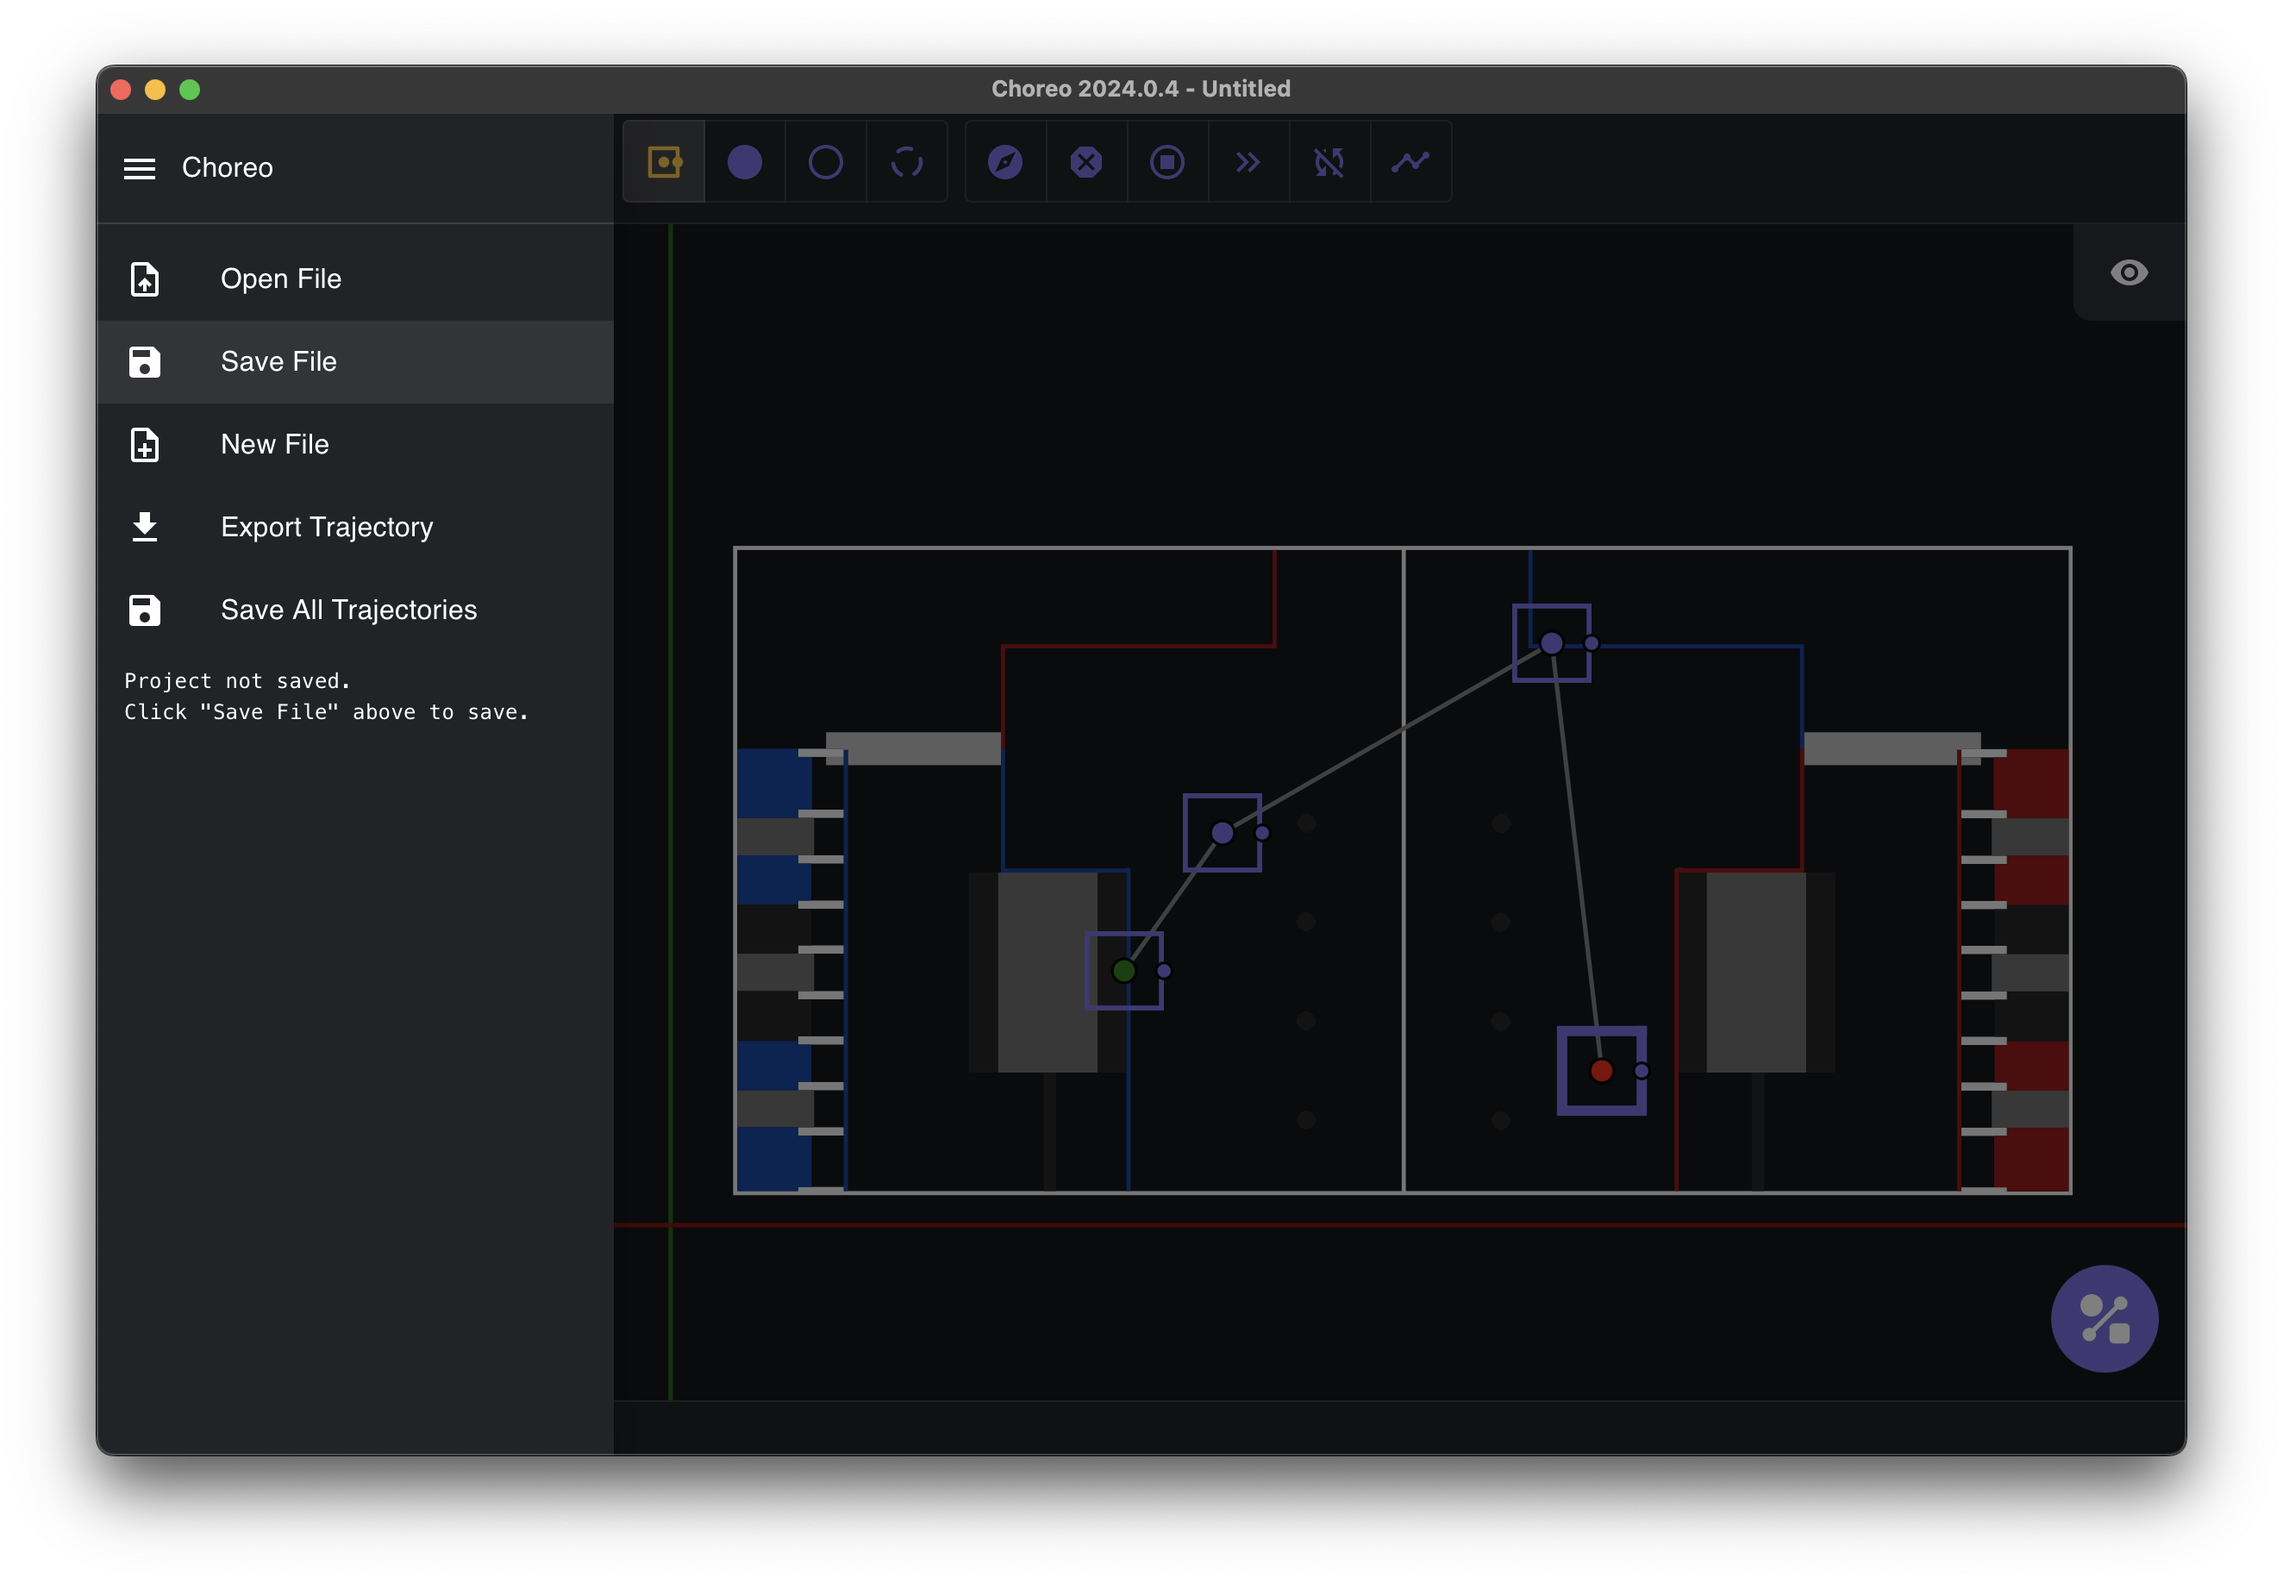
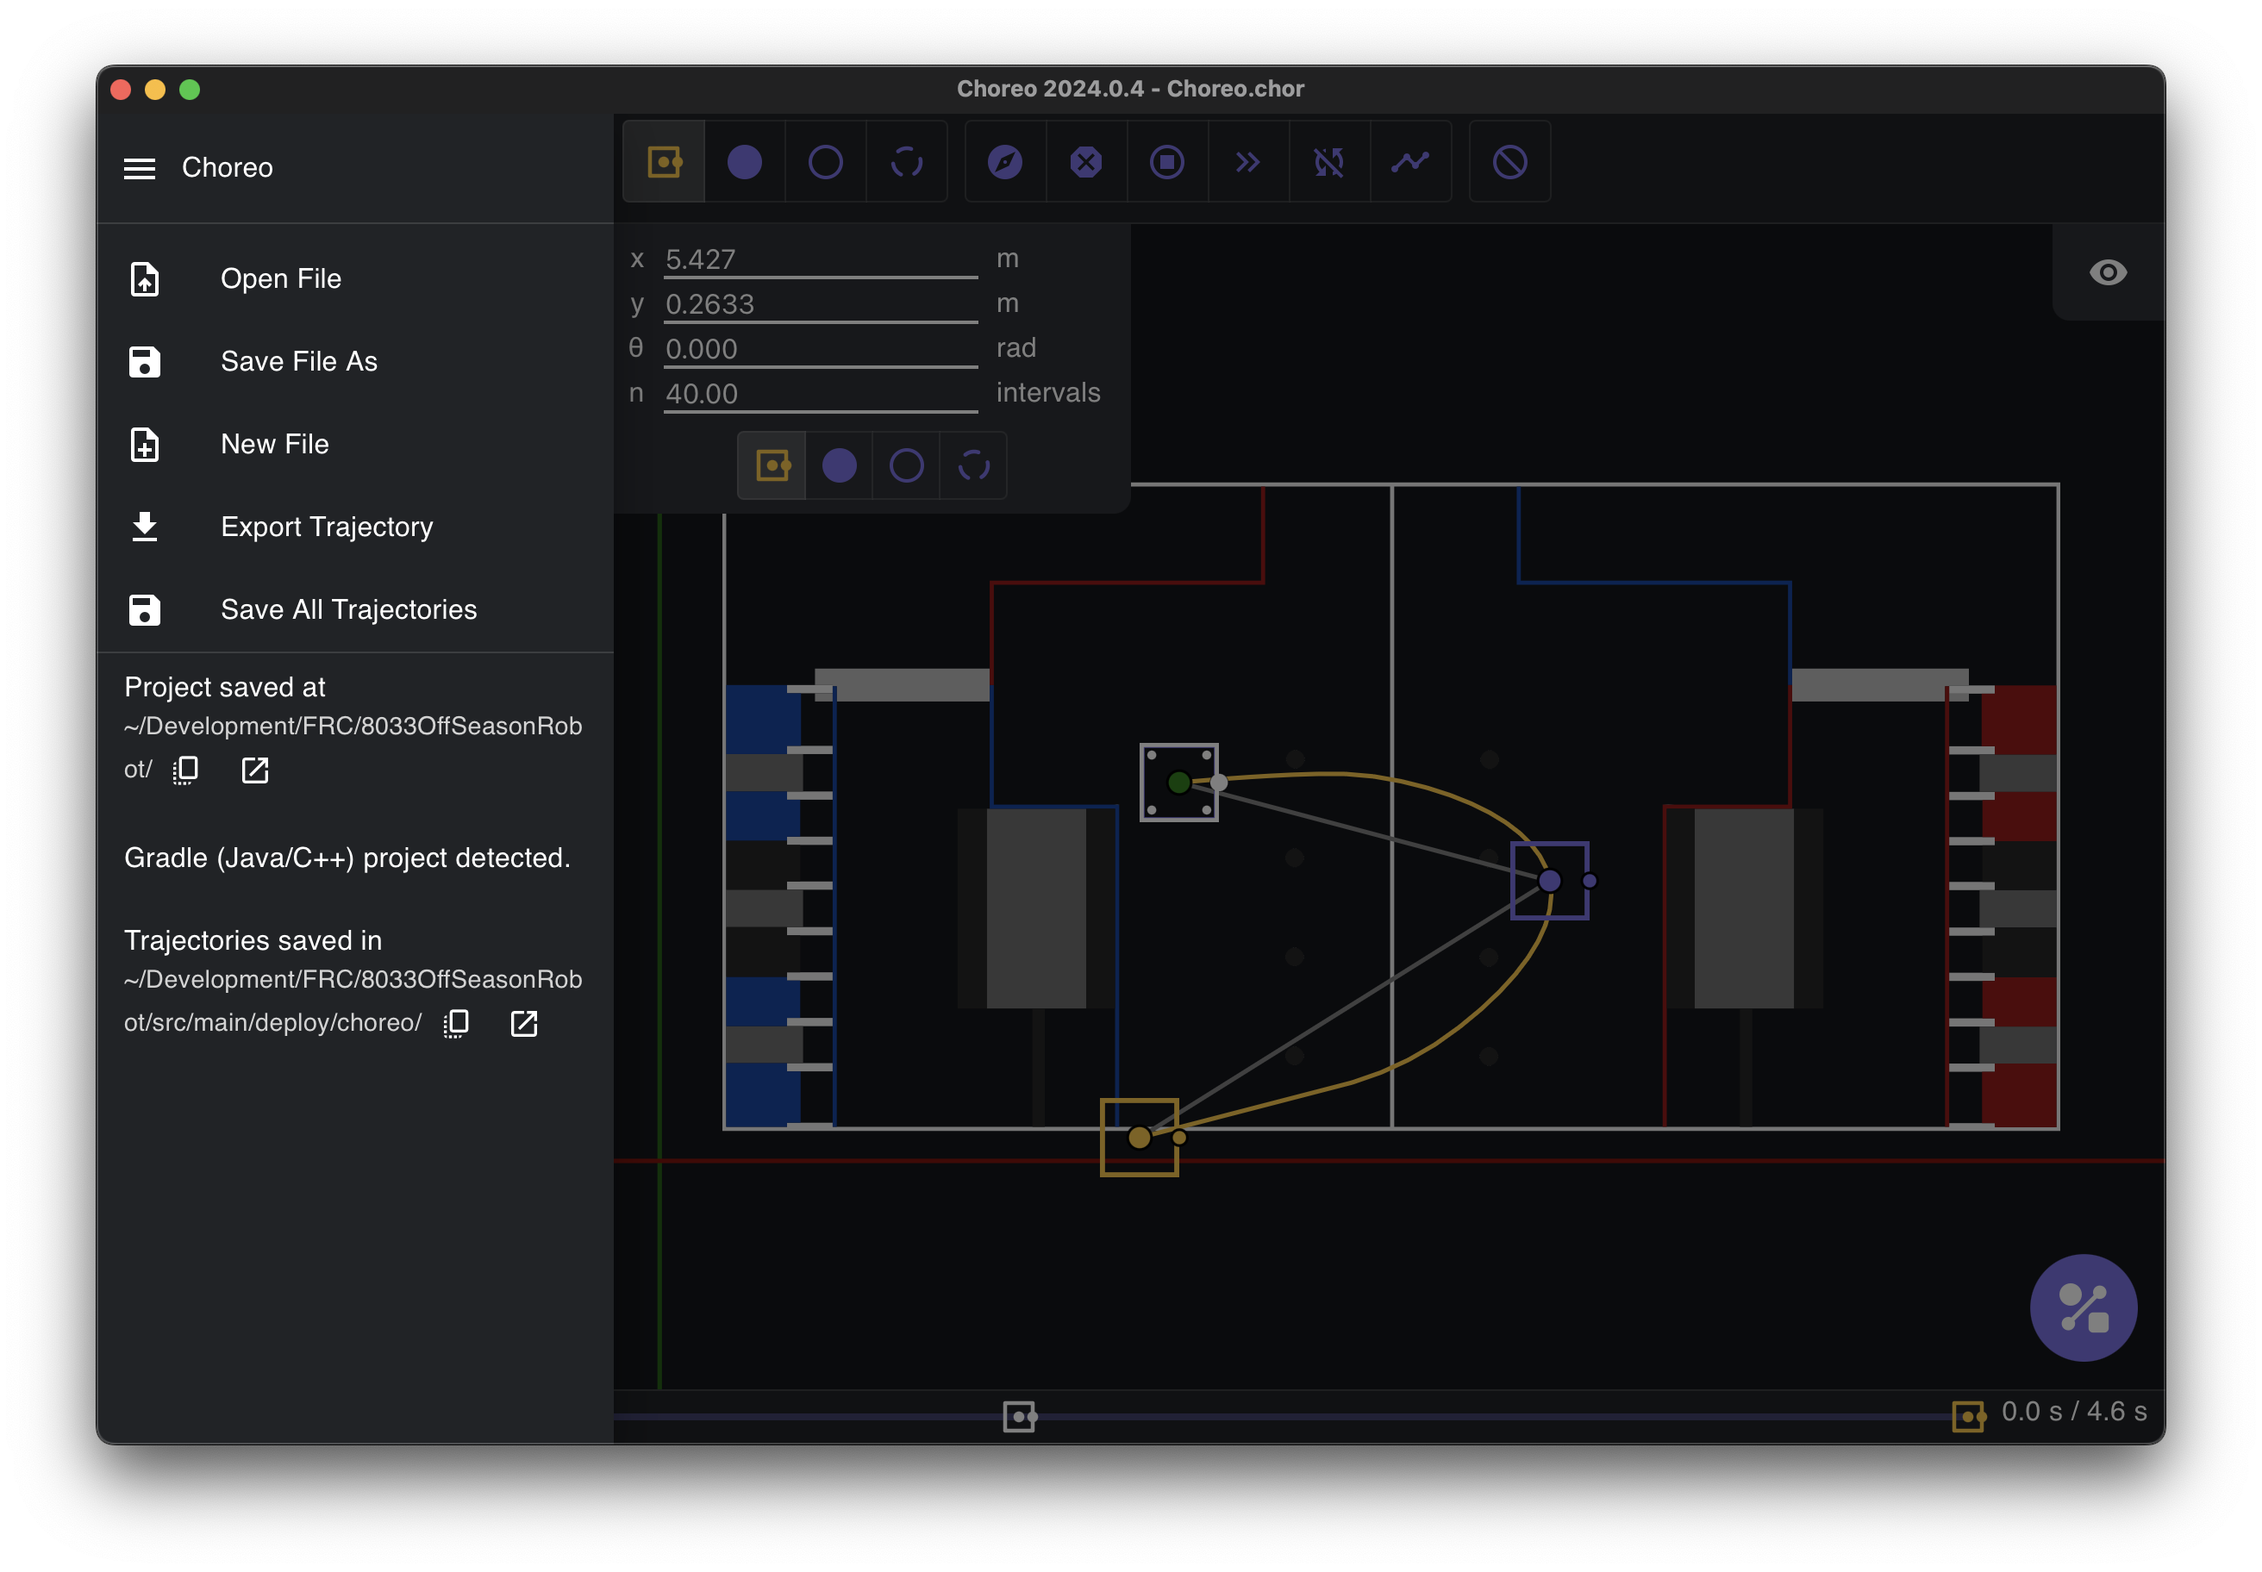
update saving

diff --git a/docs/usage/saving.md b/docs/usage/saving.md
@@ -1,6 +1,8 @@
-![Sidebar image](../media/sidebar.png)
+# Saving
 
 To access the sidebar, click the hamburger icon (top left of window).
+
+![Sidebar image](../media/sidebar.png)
 
 General Info:
 
@@ -28,6 +30,27 @@ Exports the trajectory as a file individually as the path selected in the UI. Th
 
 This saves all the trajectories into the folder structure described below.
 
-# Folder Structure
+## Project Details
 
-Example: …
+If you have saved your choreo file, correctly, you should see the below:
+
+![Project Info](../media/project_info.png)
+
+Project saved at shows the relative path where the `.chor` file lives in. You copy or open the full path in the default files app.
+
+Gradle project detected looks for a .gradle file as well as `/src/main/deploy/`, so it can put the trajectories in.
+
+Trajectories saved in shows relative path where trajectories are saved in. [ChoreoLib](../choreolib/installation.md) looks inside the `{deployDirectory}/choreo` for a matching trajectory.
+<br><br><br>
+If you get the below:
+
+![Project not saved](../media/project_not_saved.png)
+
+Then it means you have not saved the file yet.
+
+<br>
+# Folder Structure
+Example:
+
+- Choreo file lives in: `~/Development/FRC/Roboto/Choreo.chor`
+- Trajectories live in: `~/Development/FRC/Roboto/src/main/deploy/choreo/...`
